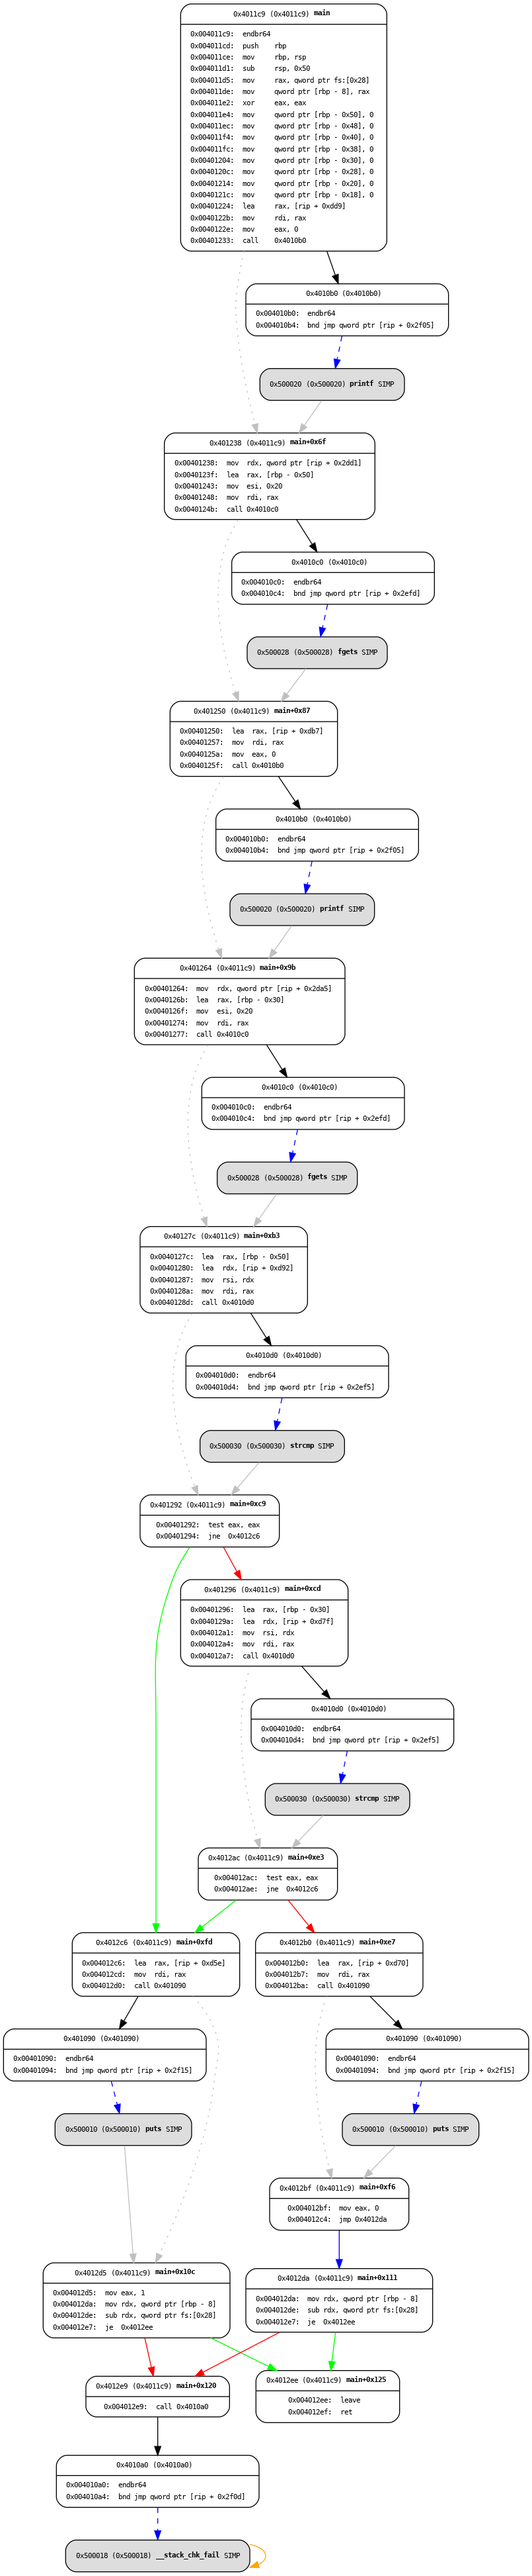
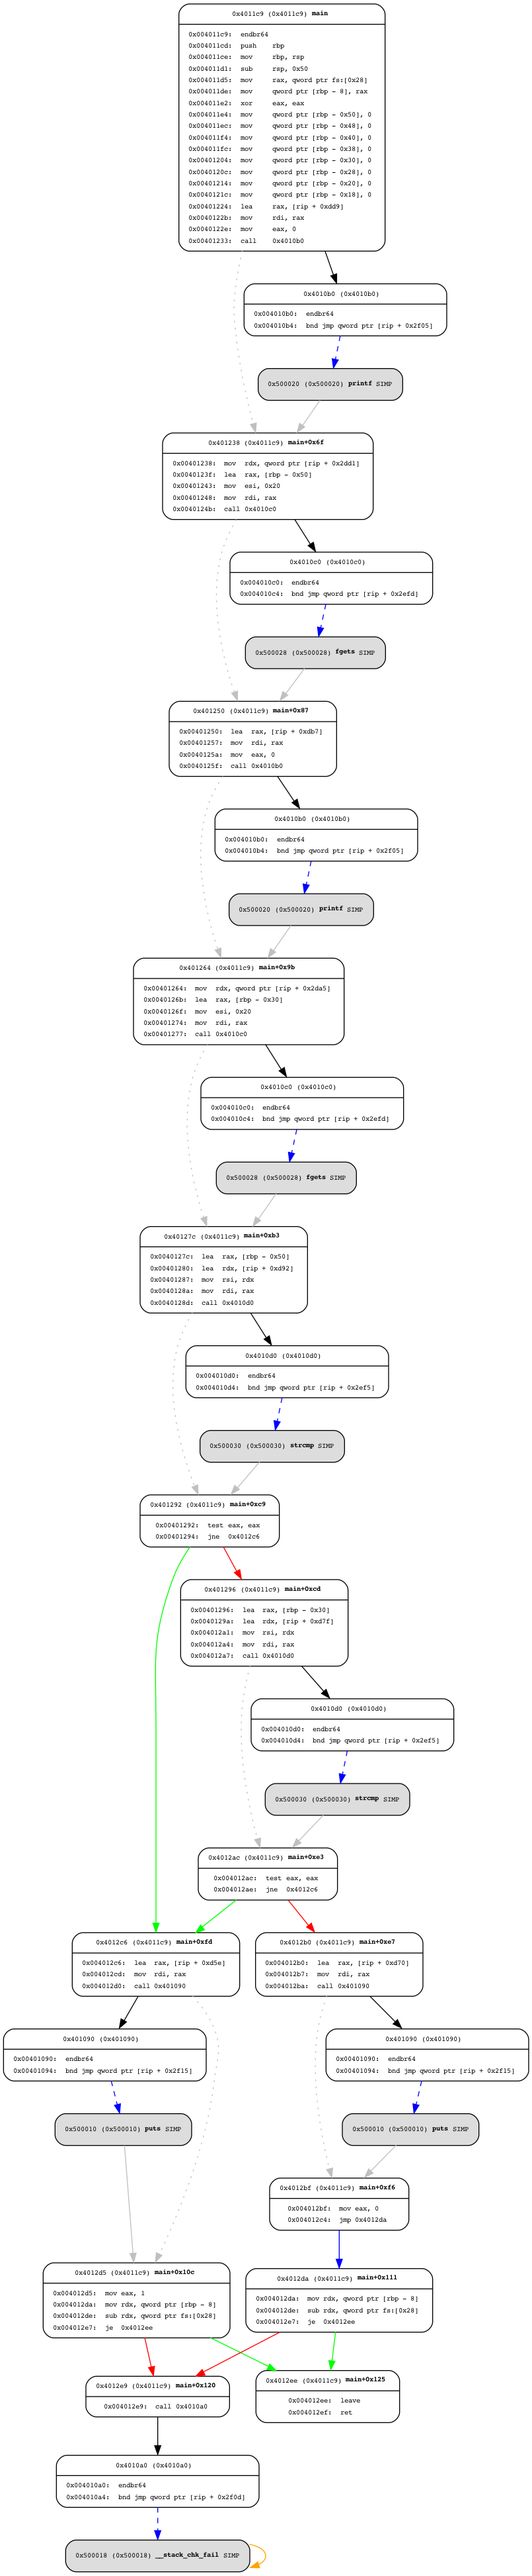
Lab08 WA

diff --git a/Lab08/lab/solve.py b/Lab08/lab/solve.py
@@ -1,5 +1,33 @@
 import angr
+import sys
+import binascii
+
+main_addr = 0x4011a9
+find_addr = 0x401371
+avoid_addr = 0x40134d
+
+class my_scanf(angr.SimProcedure):
+    def run(self, fmt, n):
+        simfd = self.state.posix.get_fd(sys.stdin.fileno())
+        data, ret_size = simfd.read_data(0x04)
+        self.state.memory.store(n, data)
+        return 1
 
 proj = angr.Project('./src/prog', load_options={'auto_load_libs': False})
+proj.hook_symbol('printf', angr.SIM_PROCEDURES['stubs']['ReturnUnconstrained'](), replace=True)
+proj.hook_symbol('__isoc99_scanf', my_scanf(), replace=True)
 
-# TODO
+state = proj.factory.blank_state(addr=main_addr)
+
+simgr = proj.factory.simulation_manager(state)
+simgr.explore(find=find_addr, avoid=avoid_addr)
+
+if simgr.found:
+    input = simgr.found[0].posix.dumps(sys.stdin.fileno())
+    bytes_list = [input[i:i+4] for i in range(0, len(input), 4)]
+    with open('solve_input', 'w') as f:
+        for bytes in bytes_list:
+            dec = int.from_bytes(bytes, byteorder='big', signed=True)
+            f.write(f'{dec}\n')
+else:
+    print('Failed')

diff --git a/Lab08/lab/get_cfg.py b/Lab08/lab/get_cfg.py
@@ -1,0 +1,12 @@
+import angr
+from angrutils import *
+
+proj = angr.Project('./src/prog', load_options={'auto_load_libs': False})
+
+main = proj.loader.main_object.get_symbol('main')
+
+start_state = proj.factory.blank_state(addr=main.rebased_addr)
+
+cfg = proj.analyses.CFGEmulated(fail_fast=True, starts=[main.rebased_addr], initial_state=start_state)
+
+plot_cfg(cfg, "my_cfg", asminst=True, remove_imports=True, remove_path_terminator=True)  

diff --git a/README.md b/README.md
@@ -21,3 +21,5 @@ Note: This will take a few minutes the first time you do it, but will be much fa
 ![Lab05 workflow](https://github.com/jason-ntu/311551137-ST-2023/actions/workflows/Lab05-CI.yml/badge.svg)
 
 ![Midterm workflow](https://github.com/jason-ntu/311551137-ST-2023/actions/workflows/Midterm-CI.yml/badge.svg)
+
+![Lab08 workflow](https://github.com/jason-ntu/311551137-ST-2023/actions/workflows/Lab08-CI.yml/badge.svg)
